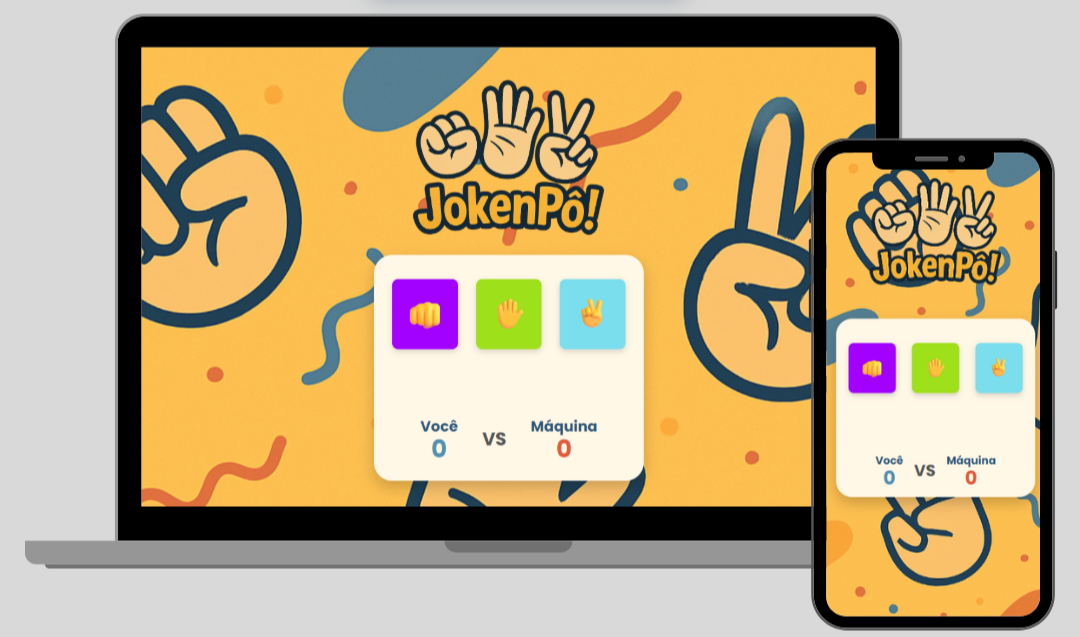
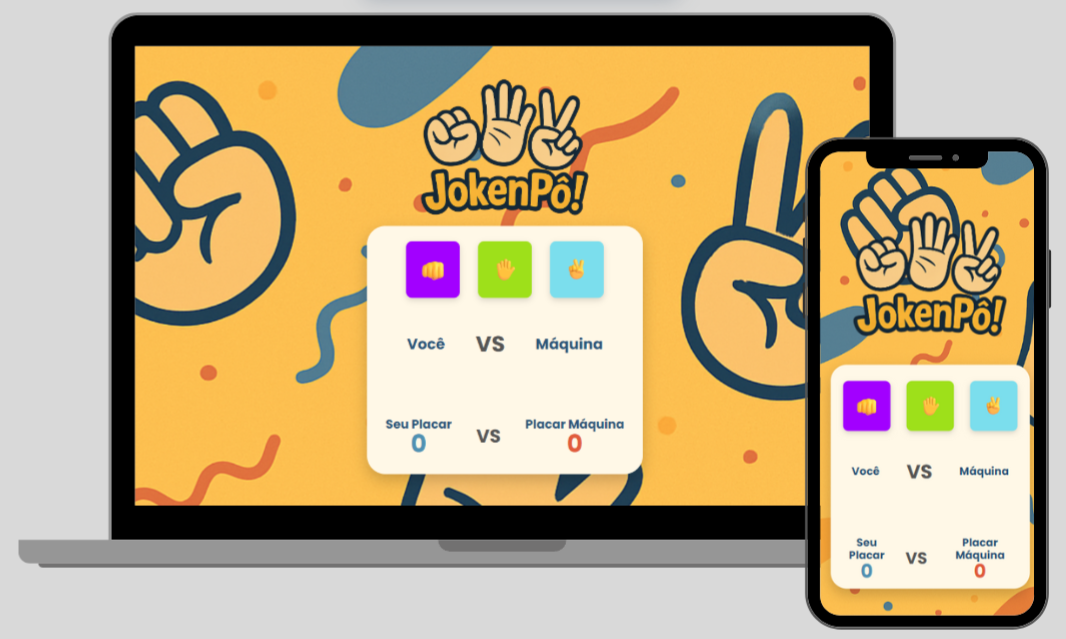
JokenPô-Molhorias

diff --git a/script.js b/script.js
@@ -1,38 +1,56 @@
 const result = document.querySelector('.result')
 const yourScoreSpan = document.querySelector('.your-score')
 const computerScoreSpan = document.querySelector('.computer-score')
+const humanChoiceEmoji = document.querySelector('#human-choice-emoji')
+const computerChoiceEmoji = document.querySelector('#computer-choice-emoji')
 
 let yourScoreNumber = 0
 let computerScoreNumber = 0
 
+
+const GAME_CHOICES = {
+    PEDRA: 'pedra',
+    PAPEL: 'papel',
+    TESOURA: 'tesoura'
+}
+
+const EMOJI_MAP = {
+    [GAME_CHOICES.PEDRA]: '👊',
+    [GAME_CHOICES.PAPEL]: '✋',
+    [GAME_CHOICES.TESOURA]: '✌'
+}
+
 const playHuman = (humanChoice) => {
-
-    playTheGama(humanChoice, playComputer())
-
+    playTheGame(humanChoice, playComputer())
 }
 
 const playComputer = () => {
-    const choices = ['pedra', 'papel', 'tesoura']
-    const randomNuber = Math.floor(Math.random() * 3)
+    const choices = [GAME_CHOICES.PEDRA, GAME_CHOICES.PAPEL, GAME_CHOICES.TESOURA]
+    const randomNumber = Math.floor(Math.random() * 3)
 
-    return choices[randomNuber]
+    return choices[randomNumber]
 }
 
-const playTheGama = (human, computer) => {
-
+const playTheGame = (human, computer) => {
     console.log('Humano: ' + human + " | Computador: " + computer)
 
-    if(human === computer){
-        result.innerHTML = 'Deu Empate 😐!'
+    humanChoiceEmoji.innerHTML = EMOJI_MAP[human]
+    computerChoiceEmoji.innerHTML = '🤔' 
+    result.innerHTML = 'A máquina está jogando...'
 
-        } else if( (human === 'papel' && computer === 'pedra') ||
-        (human === 'pedra' && computer === 'tesoura') ||
-        (human === 'tesoura' && computer === 'papel')) {
+    setTimeout(() => {
+        computerChoiceEmoji.innerHTML = EMOJI_MAP[computer]
+
+        if (human === computer) {
+            result.innerHTML = 'Deu Empate 😐!'
+        } else if ((human === GAME_CHOICES.PAPEL && computer === GAME_CHOICES.PEDRA) ||
+            (human === GAME_CHOICES.PEDRA && computer === GAME_CHOICES.TESOURA) ||
+            (human === GAME_CHOICES.TESOURA && computer === GAME_CHOICES.PAPEL)) {
             yourScoreNumber++
             yourScoreSpan.innerHTML = yourScoreNumber
             yourScoreSpan.classList.add('animate-score')
             setTimeout(() => { yourScoreSpan.classList.remove('animate-score') }, 300)
-            result.innerHTML = 'Você ganhou  🎉!' 
+            result.innerHTML = 'Você ganhou  🎉!'
         } else {
             computerScoreNumber++
             computerScoreSpan.innerHTML = computerScoreNumber
@@ -40,6 +58,5 @@ const playTheGama = (human, computer) => {
             setTimeout(() => { computerScoreSpan.classList.remove('animate-score') }, 300)
             result.innerHTML = 'Você perdeu 😭!'
         }
-
-    
+    }, 900) 
 }

diff --git a/style.css b/style.css
@@ -10,15 +10,16 @@ body {
     background-size: cover;
     display: flex;
     flex-direction: column;
-    justify-content: flex-start;
+    justify-content: center; 
     align-items: center;
     min-height: 100vh;
-    gap: 30px;
-    padding-top: 50px;
+    gap: 2vh; 
+    padding: 2vh 0; 
 }
 
 img {
-    max-width: 20%;
+    max-height: 30vh; 
+    width: auto; 
 }
 
 
@@ -38,7 +39,7 @@ img {
 
 button {
     padding: 20px;
-    font-size: 50px;
+    font-size: 35px;
     cursor: pointer;
     border: none;
     border-radius: 10px;
@@ -52,7 +53,7 @@ button:hover {
 }
 
 .button {
-    margin: 30px 0;
+    margin: 15px 0; 
     display: flex;
     gap: 30px;
 }
@@ -76,17 +77,46 @@ p {
 }
 
 .result {
-    margin: 15px 0;
-    font-size: 30px;
-    min-height: 30px;
+    margin: 10px 0; 
+    font-size: 20px;
+    min-height: 25px;
+}
+
+.choices {
+    display: flex;
+    justify-content: center;
+    align-items: center;
+    gap: 50px;
+    margin: 10px 0; 
+    min-height: 100px;
+}
+
+.choice-player, .choice-computer {
+    text-align: center;
+}
+
+.choice-emoji {
+    font-size: 50px; 
+    line-height: 1;
+}
+
+.vs-text-big {
+    font-size: 36px; 
+    font-weight: bold;
+    color: #555;
 }
 
 .score-container {
     display: flex;
     align-items: center;
     gap: 40px;
-    margin-top: 20px;
+    margin-top: 15px; 
     text-align: center;
+}
+
+.score-container p:not(.vs-text) {
+    font-size: 20px;
+    line-height: 1.2;
 }
 
 .score-container span {
@@ -118,8 +148,8 @@ p {
     }
 
     img {
-        max-width: 60%;
-        margin-bottom: 40px;
+        max-width: 70%;
+        margin-bottom: 30px;
     }
 
     .container {

diff --git a/index.html b/index.html
@@ -24,12 +24,24 @@
             <button id="tesoura" onclick="playHuman('tesoura')">✌</button>
         </div>
 
+        <div class="choices">
+            <div class="choice-player">
+                <p>Você</p>
+                <p id="human-choice-emoji" class="choice-emoji"></p>
+            </div>
+            <p class="vs-text-big">VS</p>
+            <div class="choice-computer">
+                <p>Máquina</p>
+                <p id="computer-choice-emoji" class="choice-emoji"></p>
+            </div>
+        </div>
+
         <p class="result"></p>
 
         <div class="score-container">
-            <p>Você<br><span class="your-score">0</span></p>
+            <p>Seu Placar<br><span class="your-score">0</span></p>
             <p class="vs-text">VS</p>
-            <p>Máquina<br><span class="computer-score">0</span></p>
+            <p>Placar Máquina<br><span class="computer-score">0</span></p>
         </div>
     </div>
 
